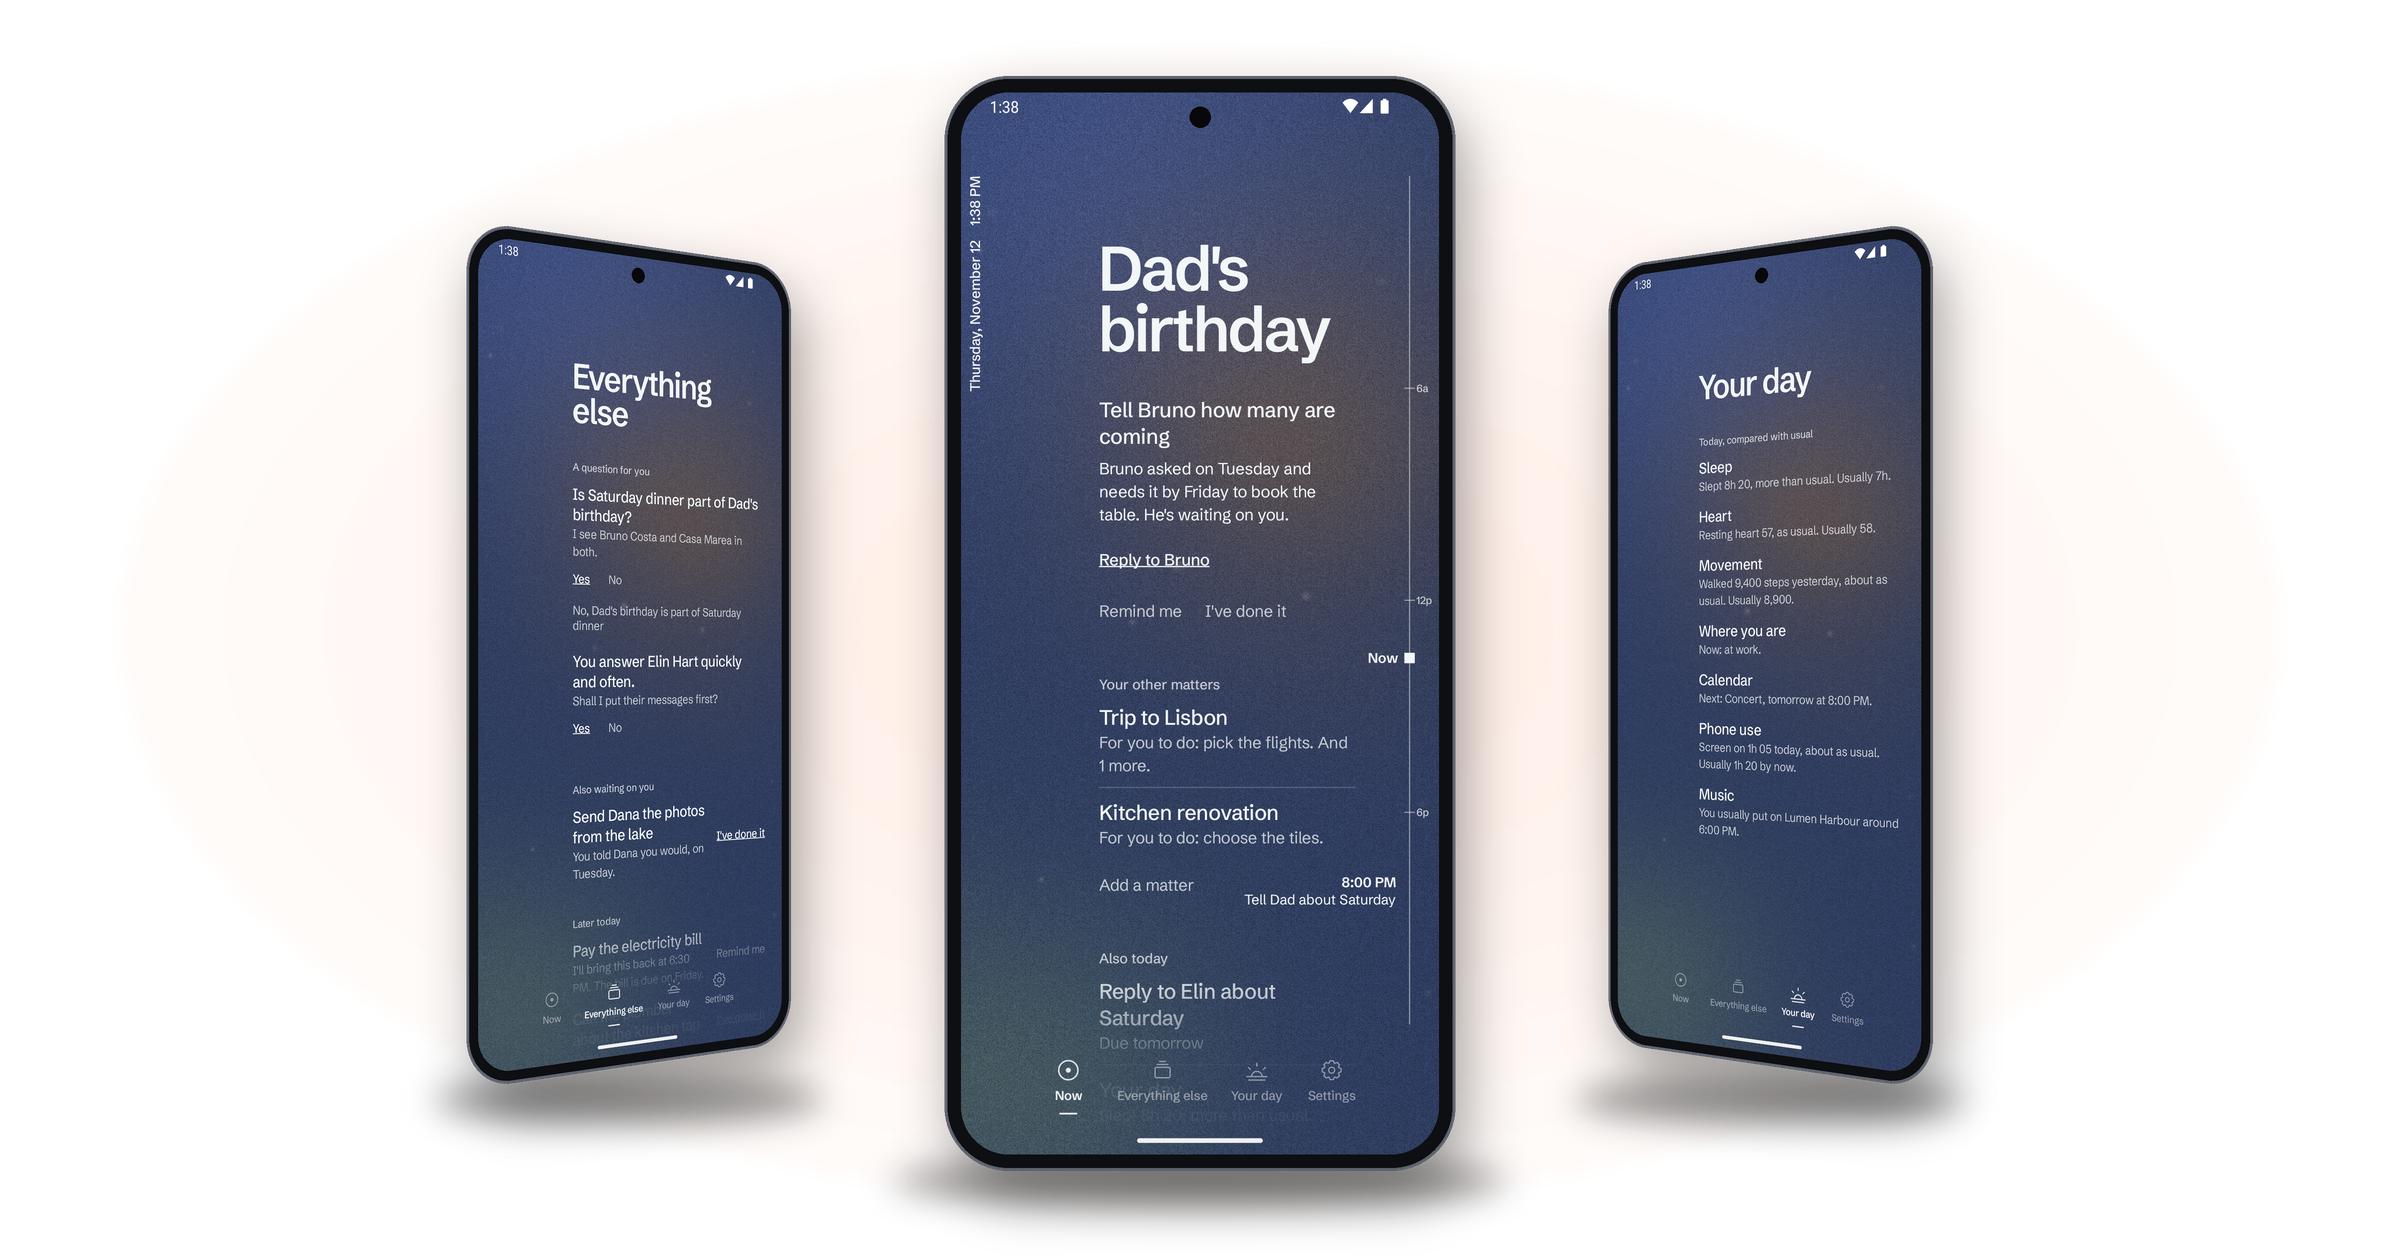
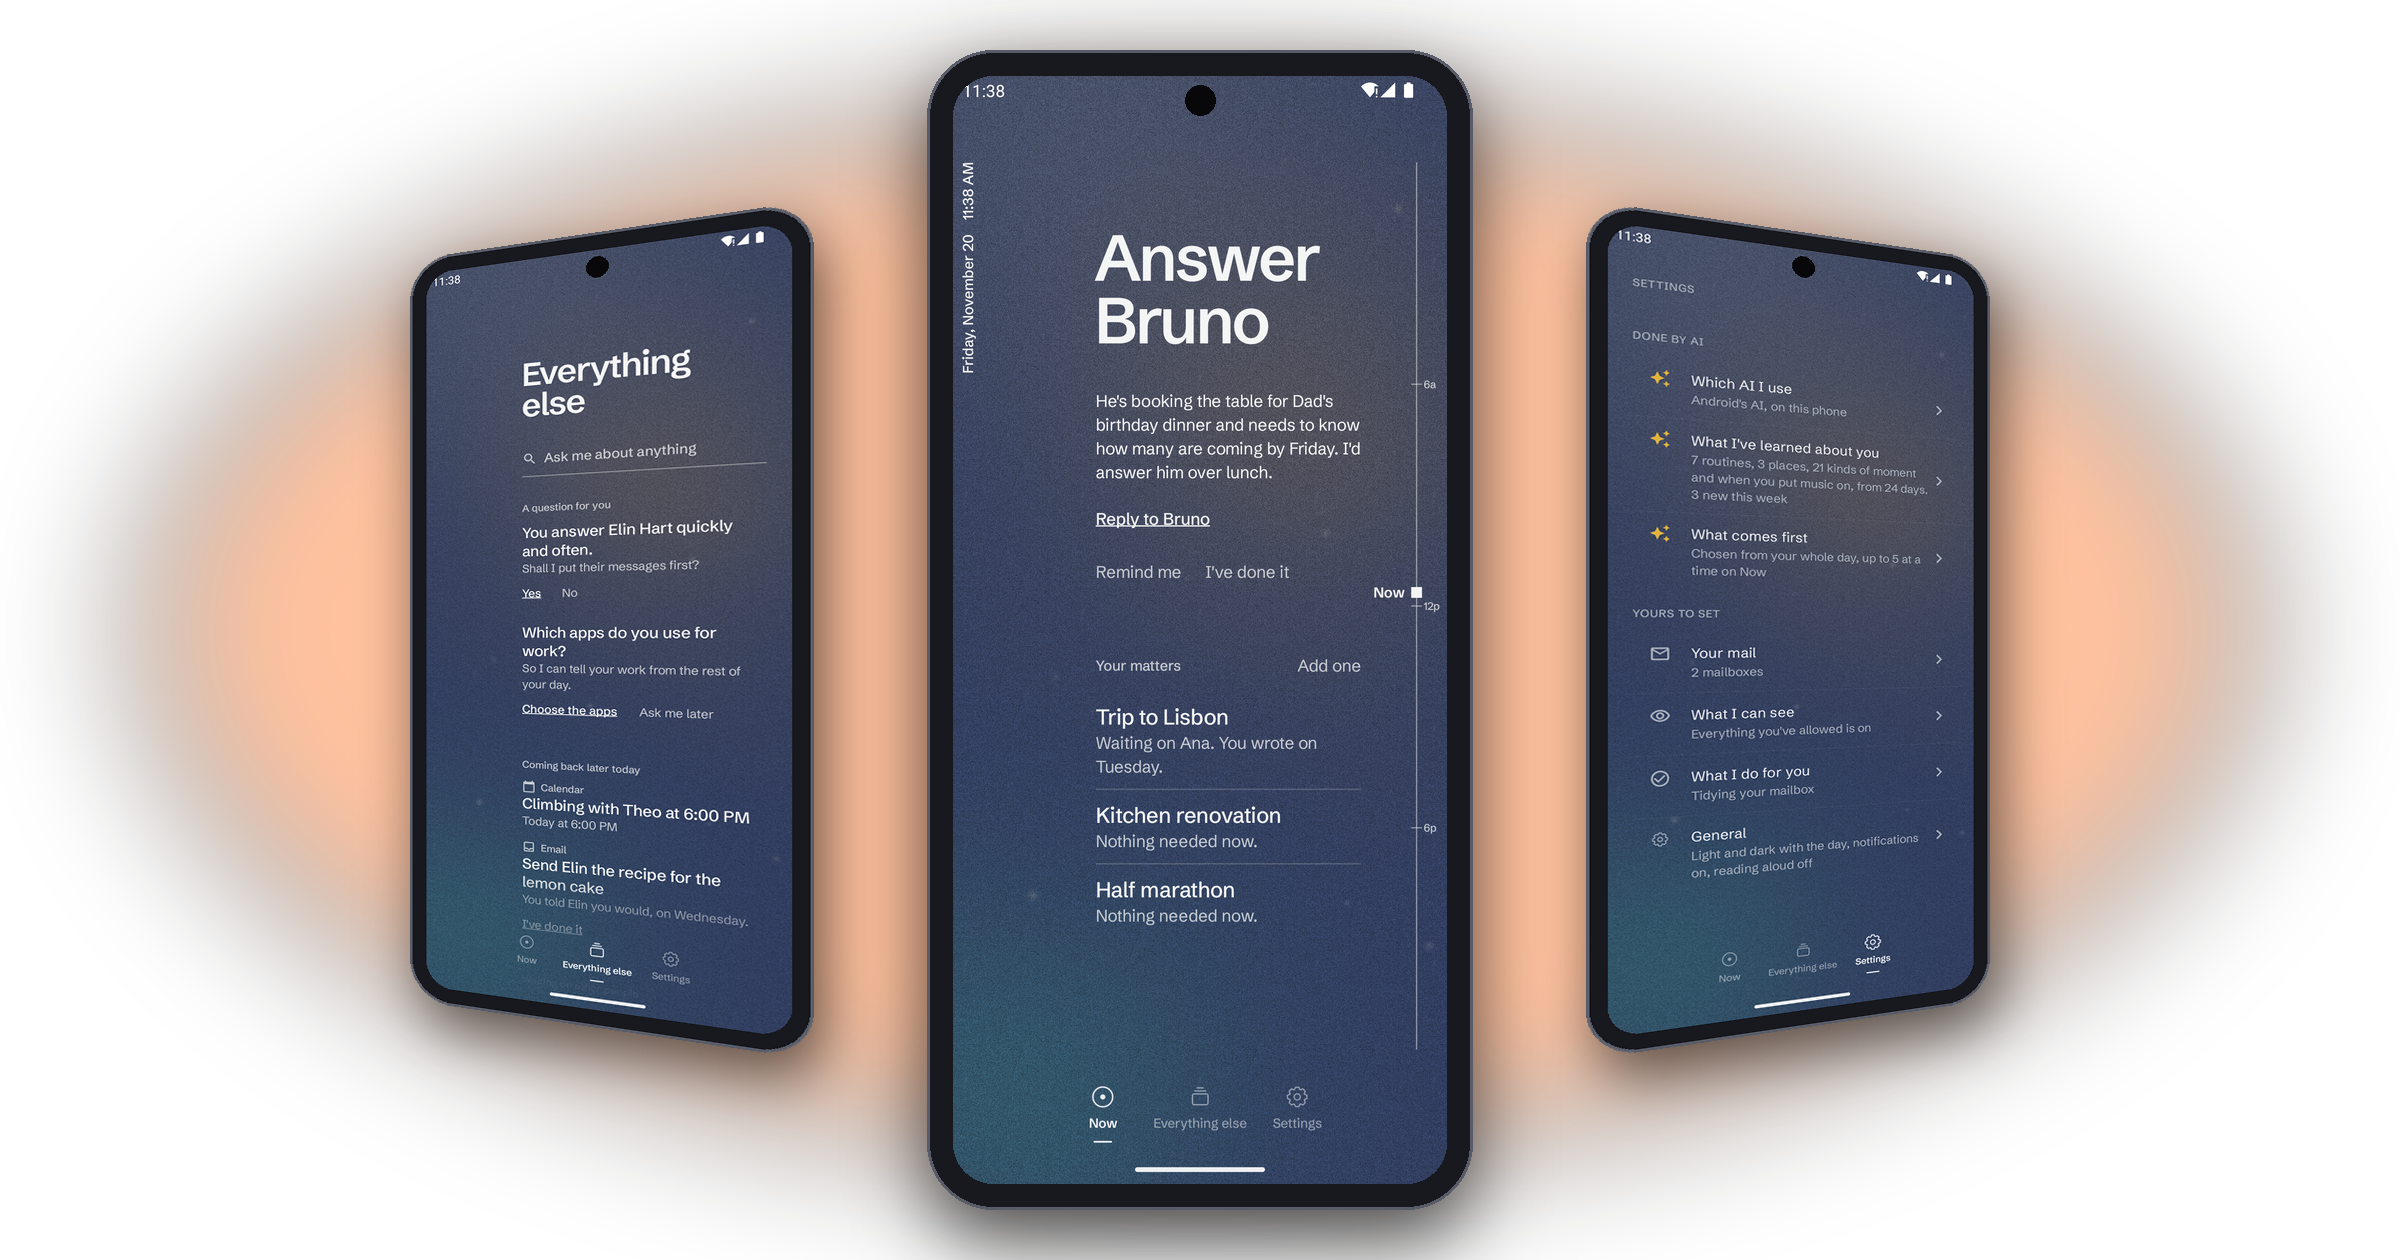
The page says what Triage is, in its maker's words, and shows the app as it is.
It opened as if Triage were a better way through mail. Now it opens with "Triage is your focus", says what it does today and only that, lists what is on its way, and keeps mail to one short section near the end. The picture shows today's three places, Everything else, Now and Settings with what Triage has learned, on a made-up day; the old one showed a Your day tab that is gone. index.html gives the page a short address that leads here, as Warmline's does.

diff --git a/index.html b/index.html
@@ -1,0 +1,12 @@
+<!doctype html>
+<html lang="en">
+<head>
+<meta charset="utf-8">
+<title>Triage</title>
+<meta http-equiv="refresh" content="0; url=https://github.com/MichaelLisboa/triage-releases">
+<link rel="canonical" href="https://github.com/MichaelLisboa/triage-releases">
+</head>
+<body>
+<p><a href="https://github.com/MichaelLisboa/triage-releases">Download Triage</a></p>
+</body>
+</html>

diff --git a/README.md b/README.md
@@ -1,7 +1,7 @@
 <div align="center">
   <img src="assets/icon.png" alt="" width="88">
   <h1>Triage</h1>
-  <p><b>Knows what moment of your day you're in, and what needs you in it.</b><br>It goes by your whole day: how you slept, where you are, what's next, what you're carrying. Then it shows you the one thing to do.</p>
+  <p><b>Triage is your focus.</b><br>It learns your life patterns, and shows you only what you need to do, when you need to do it.</p>
   <p><b>Private.</b> All of it happens on your phone, and nothing it reads leaves it unless you choose a company's AI in Settings. No server. No account. No sign-in.<br><b>Works with <a href="https://iamvanity.com">Vanity</a>.</b> If you use it, Triage can tell Vanity what needs you. Only what to do and when. Never your messages.</p>
   <p>
     <a href="https://github.com/MichaelLisboa/triage-releases/releases/latest"><img src="https://img.shields.io/github/v/release/MichaelLisboa/triage-releases?label=version&color=e8a33d" alt="Latest version"></a>
@@ -16,26 +16,53 @@
 </div>
 
 <p align="center">
-  <img src="assets/triage.png" alt="Triage on three phones: the questions and loose ends that can wait, the one thing that needs you now, and how today compares with a usual day" width="100%">
+  <img src="assets/triage.png" alt="Triage on three phones: Everything else, with what can wait and a question Triage has for you; Now, with the one thing to do and your matters under it; and Settings, with what it has learned about you" width="100%">
 </p>
 
 <table>
   <tr>
-    <td width="33%" valign="top"><b>Everything else</b><br>What can wait, waits here.</td>
+    <td width="33%" valign="top"><b>Everything else</b><br>What can wait, waits here. Ask it anything.</td>
     <td width="34%" valign="top"><b>Now</b><br>The one thing that needs you, and what to do about it.</td>
-    <td width="33%" valign="top"><b>Your day</b><br>How you slept, where you are, what's next.</td>
+    <td width="33%" valign="top"><b>What it has learned</b><br>Your routines, your places, the shape of your days.</td>
   </tr>
 </table>
 
-Be honest. It's 1:38 on a Thursday. Dad's birthday is Saturday, the flights to Lisbon aren't picked, and the kitchen still has no tiles. Which one needs you right now?
+Be honest. Your phone hands you everything at once. Mail, chats, the calendar, the reminder you set last week, and forty apps that all think they come first.
 
-Triage knows.
+Triage hands you one thing.
 
-It goes by your day. If you let it, it notices how you slept, where you are, whether you're on the move, what's on your calendar and what people have asked of you. Then it shows you the one thing that fits this moment, and holds the rest until its moment comes.
+It learns how your days go: when you wake, when you head out, when you work, when you wind down. If you let it, it notices where you are, how you slept, what's next on your calendar and what people have asked of you. Then it shows you the one thing that fits this moment, and holds everything else until its moment comes.
 
-It isn't an inbox. Mail and chats are one of the things it notices, the same way sleep is. What it follows is what you're carrying, like a residence permit or a kitchen renovation, across whoever wrote and whichever app they wrote in. When something needs an answer, it drafts one. You read it, and you press Send.
+It isn't an inbox. It isn't a calendar or a to-do list either. Mail and chats are some of what it notices, the same way sleep is. What it follows is your life: the things you're dealing with, like a trip, your taxes or a kitchen renovation, and the people in them.
 
 And all of it happens on your phone, unless you choose OpenAI, Gemini or Claude in Settings to do the reading. There is no Triage server. No account. No sign-in. Nothing you receive ever reaches me.
+
+## What it does
+
+- **Learns your life patterns.** Your routines, the places you go, the kinds of moment your days are made of, and when you put music on. Settings shows everything it has learned, and what's new this week.
+- **Shows you only what you need to do, when you need to do it.** One thing at a time on Now. Everything else waits, and comes back when it fits.
+- **Builds your matters.** Everything connected to one thing you're dealing with: the people involved, what's yours to do, and what's waiting on someone else.
+- **Notices what slips.** Something you said you'd send by Friday. A question nobody has answered in six days.
+- **Keeps track of what others have.** Hand something on to someone, and Triage remembers they have it.
+- **Drafts your replies.** When something needs an answer, it writes one. You read it, and you press Send.
+- **Saves you a step.** Put the same music on at the same time every evening? It offers to put it on.
+- **Asks before it assumes.** When it isn't sure, it asks: is Saturday's dinner part of Dad's birthday? Which apps are for work? One tap, and it remembers.
+
+<sub>Every screen on this page shows a made-up day, with made-up people and places.</sub>
+
+## On its way
+
+It's an alpha, so some of Triage is still being built. Next:
+
+- **Matters from everything.** Your calendar and files you share into Triage, a PDF, a photo of a letter, a screenshot, filed under the right matter, not only what comes in by mail and chat.
+- **Promises both ways.** What you promised and what others promised you, in chats as well as mail.
+- **Knowing when you need a break.**
+
+## Who it's for
+
+Anyone carrying more than fits in their head. A job, a home, a family, a trip, a form that's due. Anyone whose phone hands them everything at once, all day long.
+
+Triage hands you one thing. The rest can wait.
 
 ## Get it
 
@@ -49,7 +76,6 @@ This is version 0.6. It's an alpha. Things will break.
 
 - **A phone that can run AI by itself.** Some have it built in: recent Pixels, and Samsung's Galaxy S25, Z Flip7 and Z Fold7 or newer. On other phones with plenty of memory, around 12 GB, Triage downloads one, once: 2.6 GB. On a phone with neither, it says so and stops there.
 - **English, for now.** It translates messages that arrive in other languages. Triage itself only speaks English.
-- **Your mail, if you want it in.** Triage works without it. Gmail, iCloud, Yahoo, AOL, Fastmail and most others work. Gmail and iCloud make you create an app password first, and Triage walks you through it. Outlook, Hotmail and Microsoft 365 sign in on Microsoft's own page. An Outlook.com or Hotmail mailbox has to have "Let devices and apps use IMAP" turned on in its settings first. A work or school mailbox may need your workplace to allow it.
 
 ## Your phone will complain
 
@@ -69,6 +95,10 @@ Sleep and steps. Where you are. Your calendar and contacts. Which apps you use. 
 Each one is a question, and you can say no to any of them. Triage works with whatever you allow.
 
 What it reads stays on your phone, unless you choose a company's AI to read it. The whole list of what it reads, what it keeps and where it connects is in [PRIVACY.md](PRIVACY.md). It's the same text the app shows you before you start, word for word.
+
+## If you let it read your mail
+
+Triage works without it. Gmail, iCloud, Yahoo, AOL, Fastmail and most others work. Gmail and iCloud make you create an app password first, and Triage walks you through it. Outlook, Hotmail and Microsoft 365 sign in on Microsoft's own page. An Outlook.com or Hotmail mailbox has to have "Let devices and apps use IMAP" turned on in its settings first. A work or school mailbox may need your workplace to allow it.
 
 ## It updates itself
 
